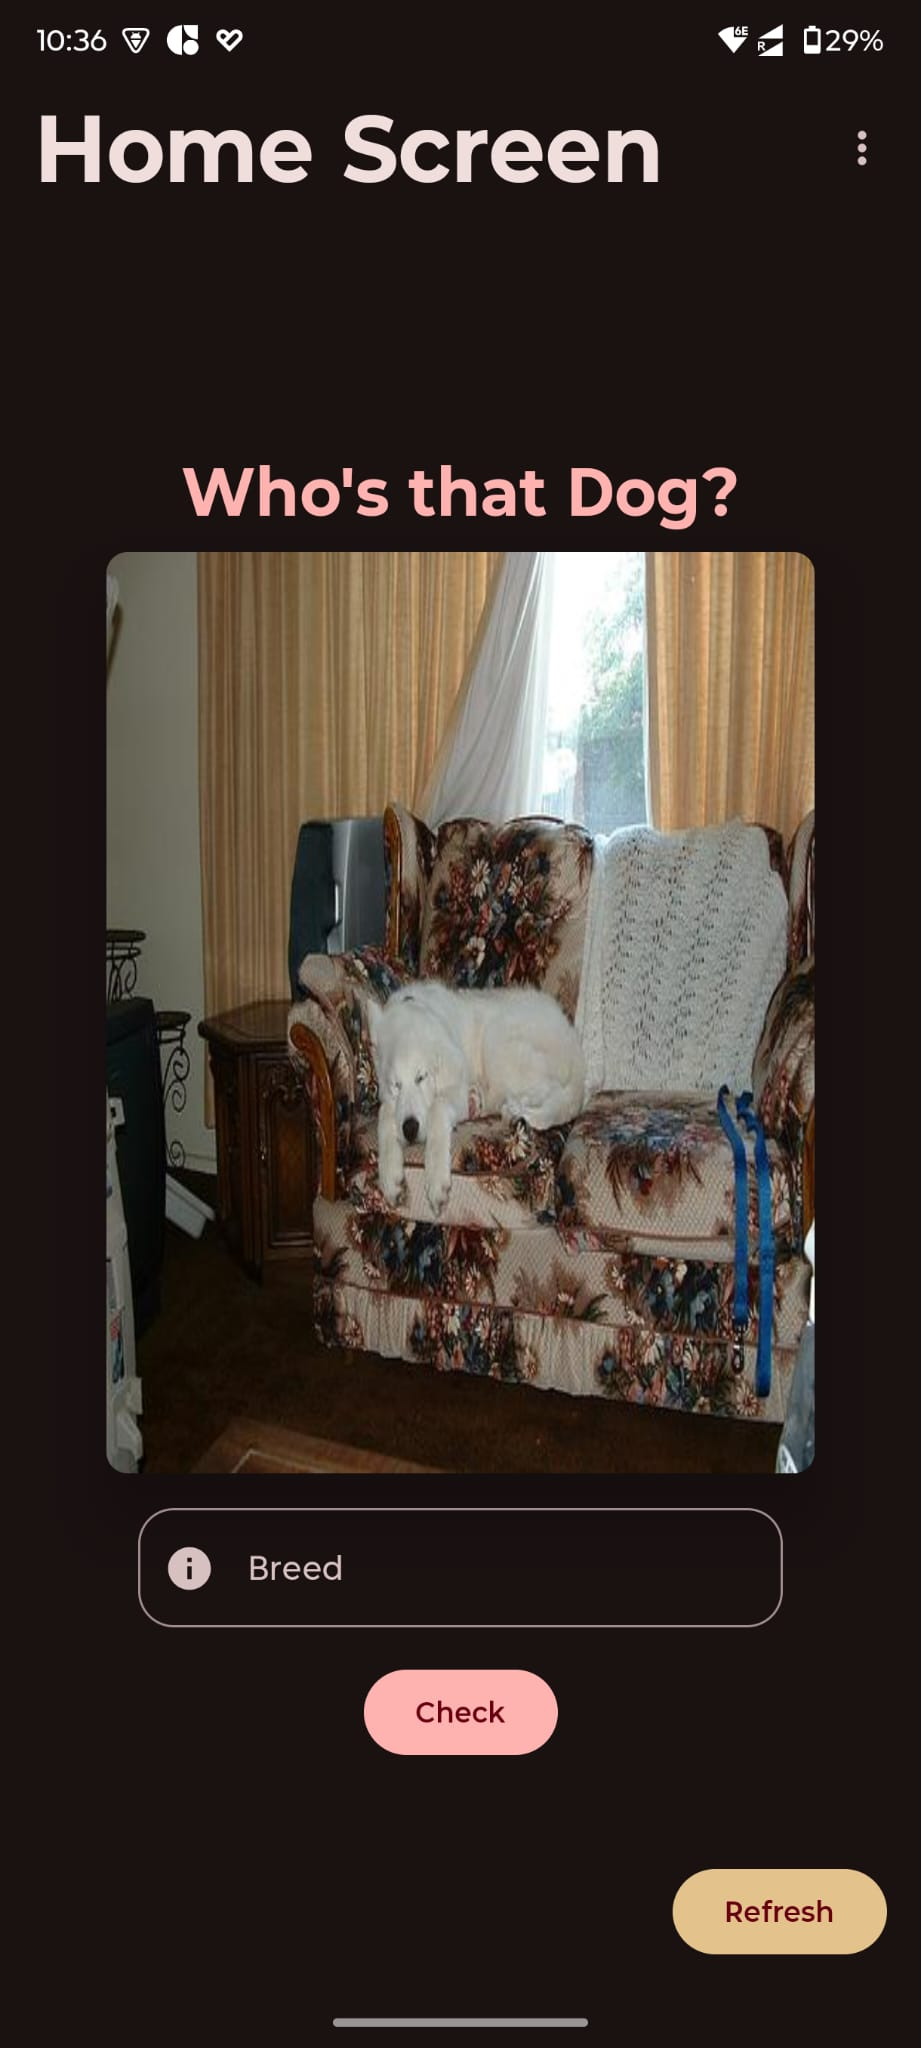
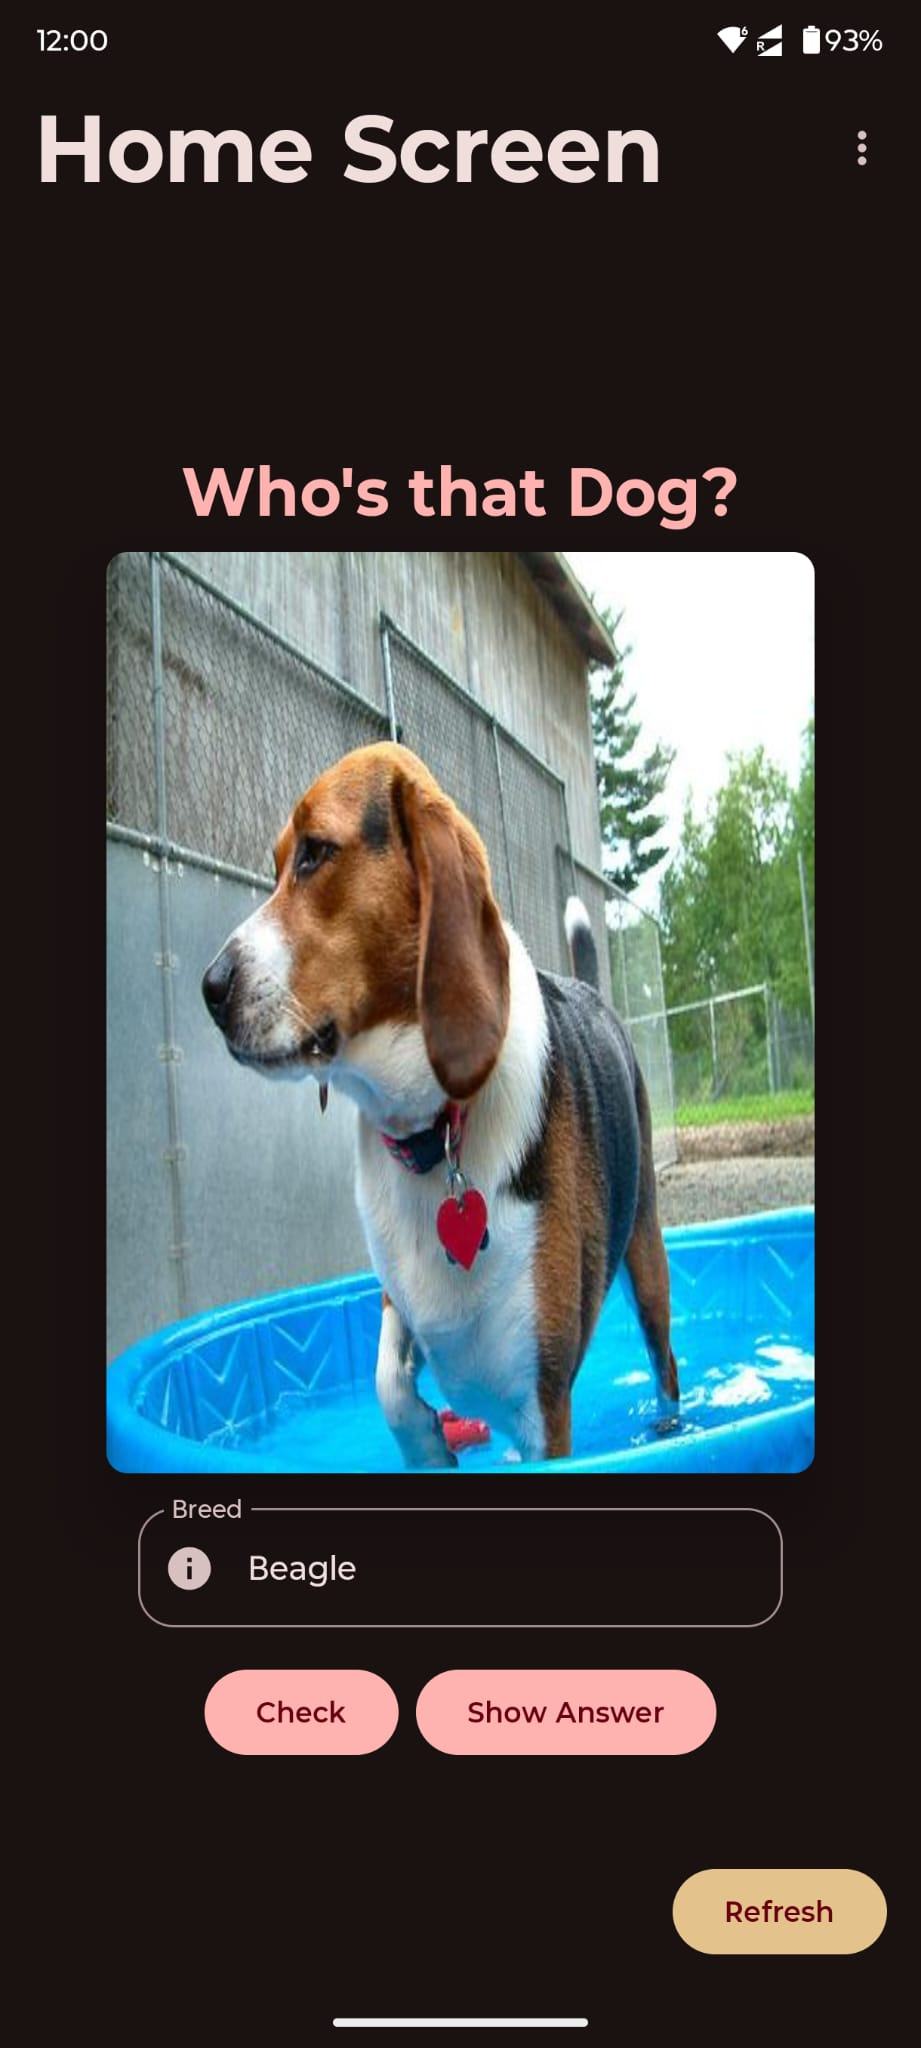
Show answer feature and UIState Test Cases, Check Answer, Show Answer Unit Tests Added

diff --git a/app/src/test/java/com/vn/whosthatdog/HomeViewModelTest.kt b/app/src/test/java/com/vn/whosthatdog/HomeViewModelTest.kt
@@ -1,5 +1,7 @@
 package com.vn.whosthatdog
 
+import com.vn.whosthatdog.services.ApiServices
+import com.vn.whosthatdog.services.RetrofitClient
 import com.vn.whosthatdog.viewmodel.HomeUiState
 import com.vn.whosthatdog.viewmodel.HomeViewModel
 import kotlinx.coroutines.Dispatchers
@@ -7,10 +9,14 @@ import kotlinx.coroutines.ExperimentalCoroutinesApi
 import kotlinx.coroutines.test.StandardTestDispatcher
 import kotlinx.coroutines.test.resetMain
 import kotlinx.coroutines.test.setMain
+import okhttp3.OkHttpClient
 import org.junit.After
 import org.junit.Test
 import org.junit.Assert.*
 import org.junit.Before
+import org.mockito.Mock
+import org.mockito.MockitoAnnotations
+import retrofit2.Retrofit
 
 @OptIn(ExperimentalCoroutinesApi::class)
 
@@ -19,11 +25,25 @@ class HomeViewModelTest{
     private lateinit var homeViewModel: HomeViewModel
     private val testDispatcher = StandardTestDispatcher()
 
+    private fun setTestHomeUiStateSuccess(){
+        homeViewModel.setTestHomeUiState(HomeUiState.Success("https://images.dog.ceo/breeds/hound-afghan/n02088094_1003.jpg"))
+
+    }
+
+    private fun setTestHomeUiStateError(){
+        homeViewModel.setTestHomeUiState(HomeUiState.Error)
+
+    }
+
+    private fun setTestHomeUiStateLoading(){
+        homeViewModel.setTestHomeUiState(HomeUiState.Loading)
+
+    }
+
     @Before
     fun setUp(){
         Dispatchers.setMain(this.testDispatcher)
-        homeViewModel = HomeViewModel(autoFetch = false)
-        homeViewModel.setTestHomeUiState(HomeUiState.Success("https://images.dog.ceo/breeds/hound-afghan/n02088094_1003.jpg"))
+        homeViewModel = HomeViewModel()
     }
 
     @After
@@ -31,11 +51,16 @@ class HomeViewModelTest{
         Dispatchers.resetMain()
     }
 
+    @Test
+    fun homeViewModel_Initialization_State() {
+        val homeUiState = homeViewModel.homeUiState
+
+        assertTrue(homeUiState.value is HomeUiState.Loading)
+    }
 
     @Test
     fun checkAnswer_nullAnswer_returnsFalse(){
-
-
+        setTestHomeUiStateSuccess()
         val result = homeViewModel.checkAnswer(null)
 
         assertFalse(result)
@@ -43,6 +68,7 @@ class HomeViewModelTest{
 
     @Test
     fun checkAnswer_correctAnswer_returnsFalse(){
+        setTestHomeUiStateSuccess()
         val result = homeViewModel.checkAnswer("hound afghan")
 
         assertTrue(result)
@@ -50,8 +76,33 @@ class HomeViewModelTest{
 
     @Test
     fun checkAnswer_wrongAnswer_returnsFalse(){
+        setTestHomeUiStateSuccess()
         val result = homeViewModel.checkAnswer("null")
 
         assertFalse(result)
+    }
+
+    @Test
+    fun showAnswer_SuccessState(){
+        setTestHomeUiStateSuccess()
+        val result = homeViewModel.showAnswer()
+
+        assertEquals("Hound afghan",result)
+    }
+
+    @Test
+    fun showAnswer_ErrorState(){
+        setTestHomeUiStateError()
+        val result = homeViewModel.showAnswer()
+
+        assertEquals("",result)
+    }
+
+    @Test
+    fun showAnswer_LoadingState(){
+        setTestHomeUiStateLoading()
+        val result = homeViewModel.showAnswer()
+
+        assertEquals("",result)
     }
 }

diff --git a/app/src/main/java/com/vn/whosthatdog/ui/screens/HomeScreen.kt b/app/src/main/java/com/vn/whosthatdog/ui/screens/HomeScreen.kt
@@ -4,12 +4,14 @@ import android.widget.Toast
 import androidx.compose.foundation.background
 import androidx.compose.foundation.layout.Arrangement
 import androidx.compose.foundation.layout.Column
+import androidx.compose.foundation.layout.Row
 import androidx.compose.foundation.layout.Spacer
 import androidx.compose.foundation.layout.aspectRatio
 import androidx.compose.foundation.layout.fillMaxSize
 import androidx.compose.foundation.layout.fillMaxWidth
 import androidx.compose.foundation.layout.height
 import androidx.compose.foundation.layout.padding
+import androidx.compose.foundation.layout.width
 import androidx.compose.foundation.rememberScrollState
 import androidx.compose.foundation.shape.RoundedCornerShape
 import androidx.compose.foundation.verticalScroll
@@ -114,18 +116,28 @@ fun HomeScreen(onExploreClick: () -> Unit) {
 //                        visualTransformation = TODO()
                 )
                 Spacer(modifier = Modifier.height(16.dp))
-                Button(onClick = {
-                    val res:Boolean = homeViewModel.checkAnswer(answer)
-                    if (res){
-                        Toast.makeText(context, "You are right!!", Toast.LENGTH_SHORT).show()
-                        homeViewModel.fetchRandomImage()
-                        onAnswerChange("")
-                    }else{
-                        Toast.makeText(context, "Better luck Next time!!", Toast.LENGTH_SHORT).show()
-                        onAnswerChange("")
+                Row {
+                    Button(onClick = {
+                        val res: Boolean = homeViewModel.checkAnswer(answer)
+                        if (res) {
+                            Toast.makeText(context, "You are right!!", Toast.LENGTH_SHORT).show()
+                            homeViewModel.fetchRandomImage()
+                            onAnswerChange("")
+                        } else {
+                            Toast.makeText(context, "Better luck Next time!!", Toast.LENGTH_SHORT)
+                                .show()
+                            onAnswerChange("")
+                        }
+                    }) {
+                        Text("Check")
                     }
-                }) {
-                    Text("Check")
+                    Spacer(modifier = Modifier.width(8.dp))
+                    Button(onClick = {
+                        val res: String = homeViewModel.showAnswer()
+                        onAnswerChange(res)
+                    }) {
+                        Text("Show Answer")
+                    }
                 }
             }
         }

diff --git a/app/src/main/java/com/vn/whosthatdog/viewmodel/HomeViewModel.kt b/app/src/main/java/com/vn/whosthatdog/viewmodel/HomeViewModel.kt
@@ -6,6 +6,7 @@ import androidx.compose.runtime.mutableStateOf
 import androidx.lifecycle.ViewModel
 import androidx.lifecycle.viewModelScope
 import com.vn.whosthatdog.services.RetrofitClient
+import com.vn.whosthatdog.utils.capitalizeFirstLetter
 import kotlinx.coroutines.launch
 
 sealed interface HomeUiState {
@@ -14,13 +15,24 @@ sealed interface HomeUiState {
     data object Loading : HomeUiState
 }
 
-class HomeViewModel(private val autoFetch: Boolean = true) : ViewModel() {
+class HomeViewModel() : ViewModel() {
 
     private val _homeUiState = mutableStateOf<HomeUiState>(HomeUiState.Loading)
     val homeUiState: State<HomeUiState> = _homeUiState
 
     init {
+        _homeUiState.value = HomeUiState.Loading
         fetchRandomImage()
+    }
+
+    fun showAnswer(): String{
+        if (homeUiState.value !is HomeUiState.Success){
+            return ""
+        }
+        val st = (homeUiState.value as HomeUiState.Success).imageURl
+        val part = st.replace("-"," ").split(("/"))
+
+        return part[part.size - 2].lowercase().capitalizeFirstLetter()
     }
 
     fun checkAnswer(answer: String?): Boolean{

diff --git a/app/src/main/java/com/vn/whosthatdog/services/RetrofitClient.kt b/app/src/main/java/com/vn/whosthatdog/services/RetrofitClient.kt
@@ -7,7 +7,7 @@ import retrofit2.converter.gson.GsonConverterFactory
 
 object RetrofitClient {
 
-    private val BASE_URL = "https://dog.ceo/api/"
+    private const val BASE_URL = "https://dog.ceo/api/"
     val apiServices: ApiServices by lazy{
 
         val logging = HttpLoggingInterceptor()
